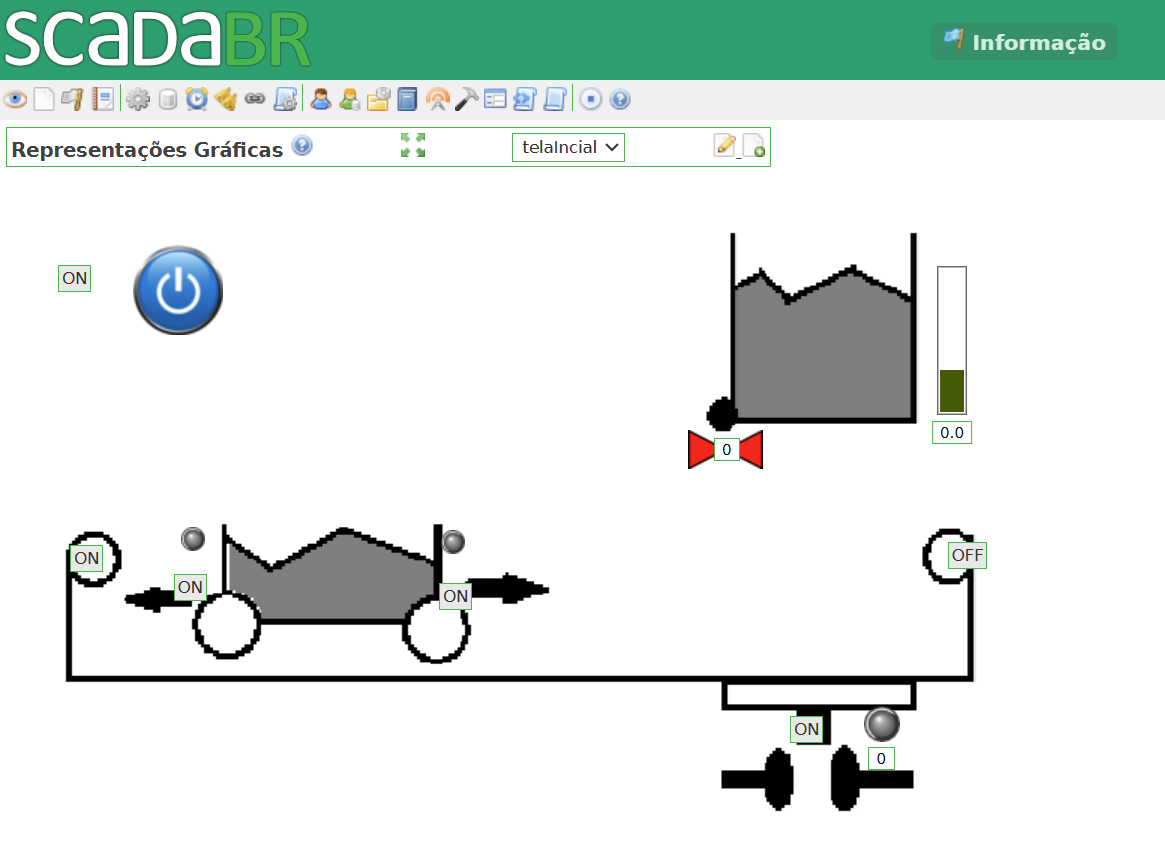
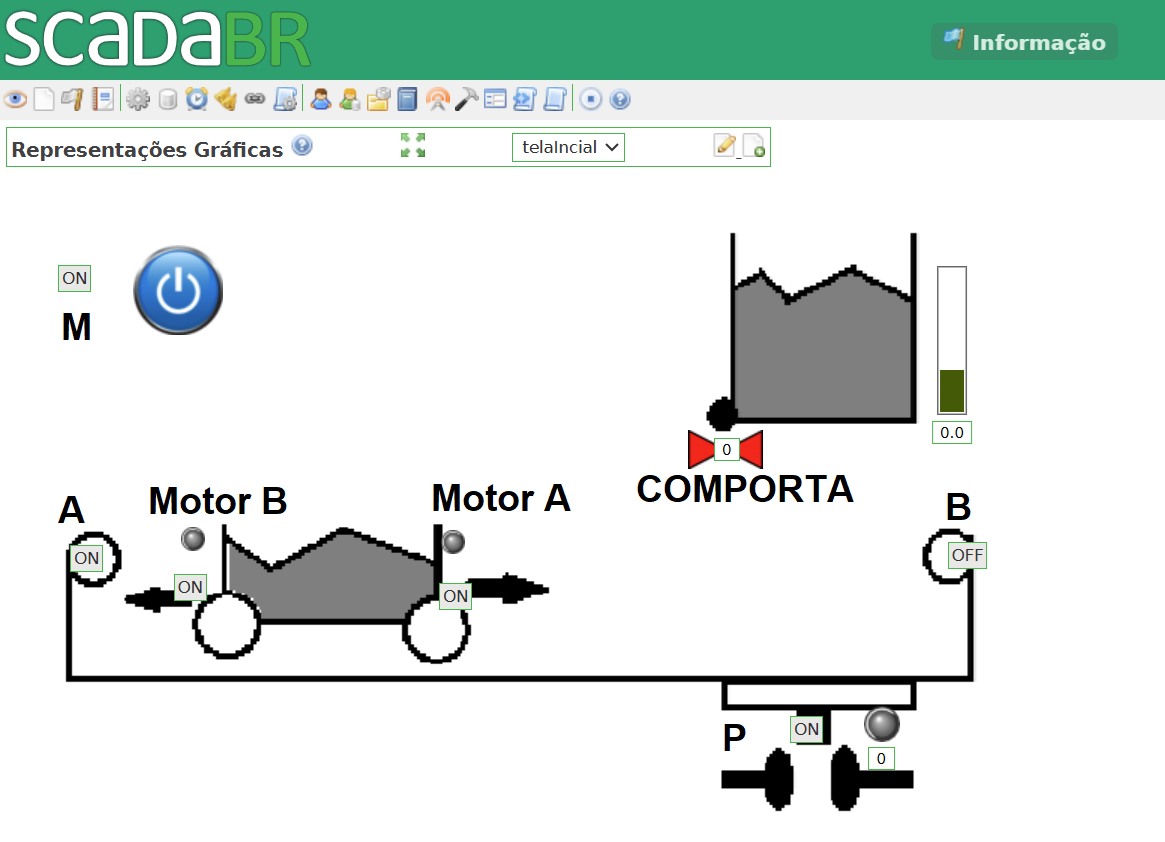
Update README and .ldd

diff --git a/README.md b/README.md
@@ -1,9 +1,79 @@
-<h1>Projeto Carro de Transporte</h1>
+# 🚧 Projeto: Carrinho de Transporte (CLP / SCADA / Ladder)
+
+Este projeto simula um sistema de automação industrial de um **carrinho de transporte automatizado**, desenvolvido com lógica Ladder em ambiente SCADA/CLP.
+
+---
+
+## 📌 Descrição do Processo
+
+O sistema funciona conforme a seguinte sequência operacional:
+
+1. O carrinho inicia na posição de repouso à esquerda, com o sensor **"a" acionado**.
+2. O processo é iniciado ao pressionar a botoeira **"m"**.
+3. O carrinho se desloca para a direita até acionar o sensor **"b"**.
+4. Ao atingir o sensor **"b"**, a comporta **"carrega" é aberta** e o material é carregado.
+5. Quando o sensor **"p"** é acionado, indica que o peso correto foi atingido.
+6. Neste momento, a comporta **"carrega" é fechada**.
+7. O sistema aguarda **5 segundos** após o fechamento da comporta.
+8. O carrinho retorna para a esquerda até acionar novamente o sensor **"a"**.
+9. O ciclo é finalizado.
+
+---
+
+## ⚙️ Objetivo
+
+Implementar um **diagrama Ladder de controle** capaz de automatizar completamente o ciclo descrito, garantindo:
+
+- Sequenciamento correto das etapas
+- Intertravamento de sensores e atuadores
+- Temporização de 5 segundos no retorno
+- Controle seguro do movimento bidirecional do carrinho
+
+---
+
+## 🧠 Lógica de Controle (Resumo)
+
+O sistema pode ser entendido como uma máquina de estados simples:
+
+- Estado inicial: repouso (sensor A)
+- Movimento → direita (até sensor B)
+- Carregamento (sensor B + peso P)
+- Fechamento da comporta
+- Temporização (TOF 5s)
+- Retorno → esquerda (até sensor A)
+
+---
+
+## 🧠 Lógica Ladder (Diagrama de Controle)
+
+A implementação abaixo foi desenvolvida no LOGO! Soft Comfort e é responsável por controlar toda a sequência do carrinho de transporte.
+
+![Print do Ladder no LOGO SOFT](Imgs/ladder_print.png)
+
+
+## 🖥️ Interface SCADA
 
 ![Print do Projeto no SCADA](Imgs/print_SCADA.png)
 
-![Atividade proposta](image-1.png)
+---
+
+## 📊 Simulação do Processo
 
 ![GIF do projeto no SCADA](Imgs/GIF_SCADA.gif)
 
-![Banco de dados](image.png)
+---
+
+## 📎 Atividade Proposta
+
+A atividade solicitada foi:
+
+> Desenvolver um diagrama Ladder de controle para um carrinho de transporte automatizado seguindo a sequência descrita acima.
+
+---
+
+## 🗂️ Observações
+
+- O sistema foi implementado considerando sensores discretos (A, B e P)
+- A temporização de 5 segundos foi realizada via bloco de temporizador (TOF)
+- A lógica garante reinício automático do ciclo ao retornar ao estado inicial
+